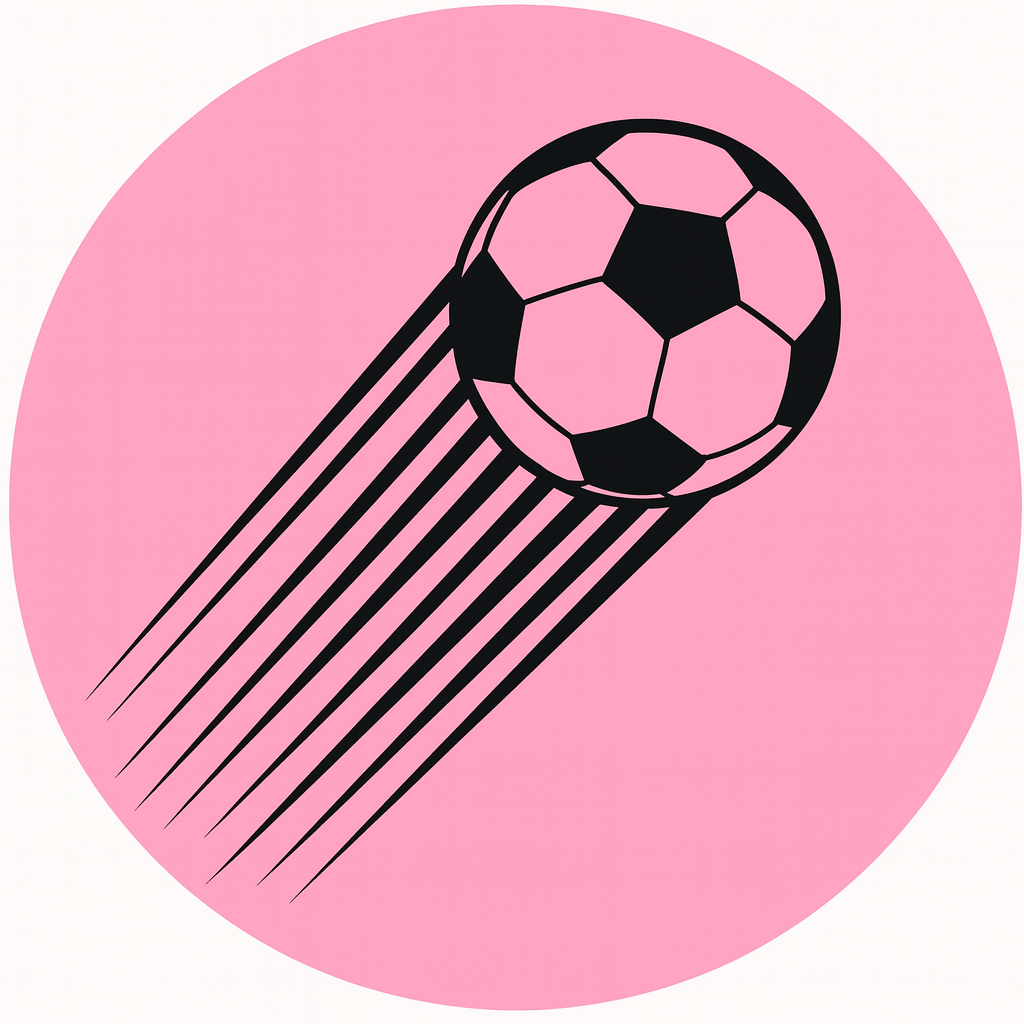
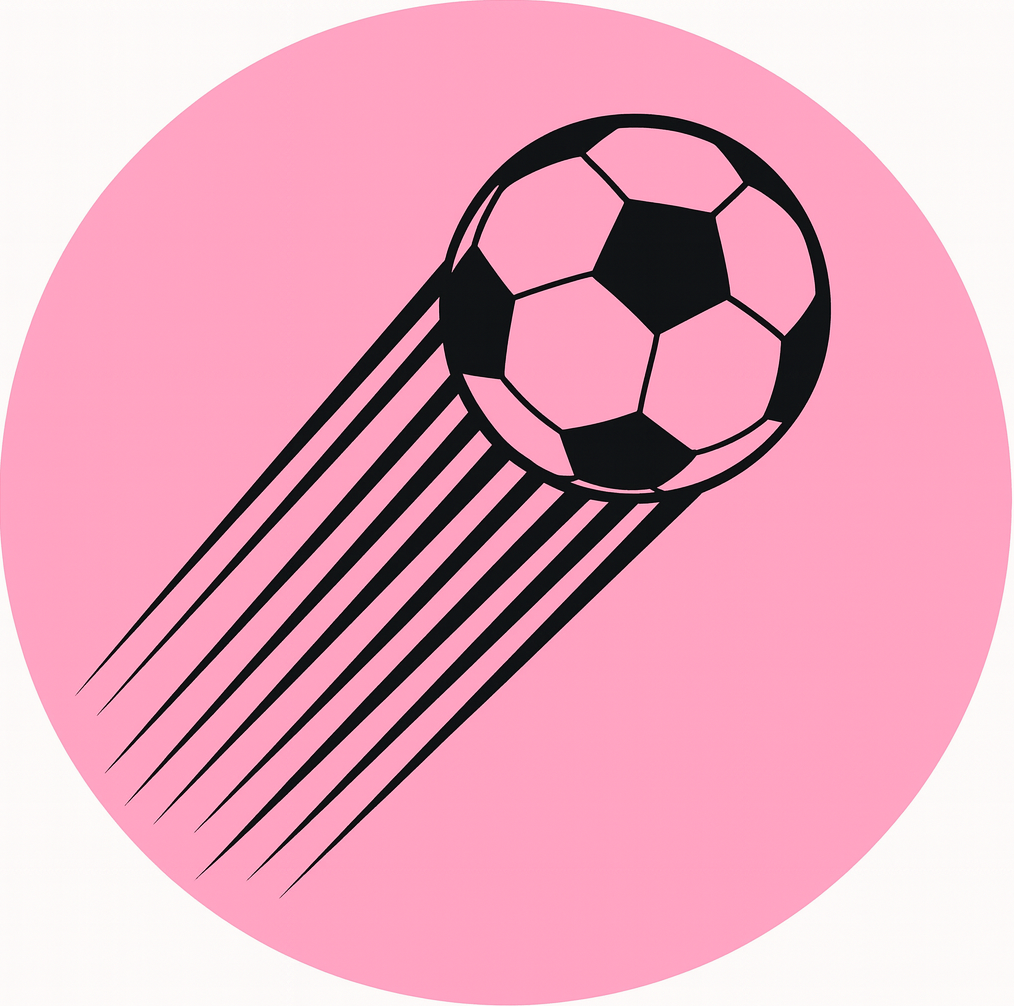
fix cartes bonus

diff --git a/src/app/[competitionId]/_screens/GridScreen.tsx b/src/app/[competitionId]/_screens/GridScreen.tsx
@@ -1229,8 +1229,10 @@ const isTerminator = (row: LeaderboardRow) =>
         if (gmError) throw gmError;
 
         // 5) Fusionner tout pour construire le tableau final
-        const clean: any[] = (raws || []).map((m) => {
-          const gm = rawGridMatches.find((gm) => gm.match_id === m.id);
+const clean: any[] = (raws || []).map((m) => {
+  const gm = rawGridMatches?.find(
+    (gm) => String(gm.match_id) === String(m.id)
+  );
 
           return {
             ...m,